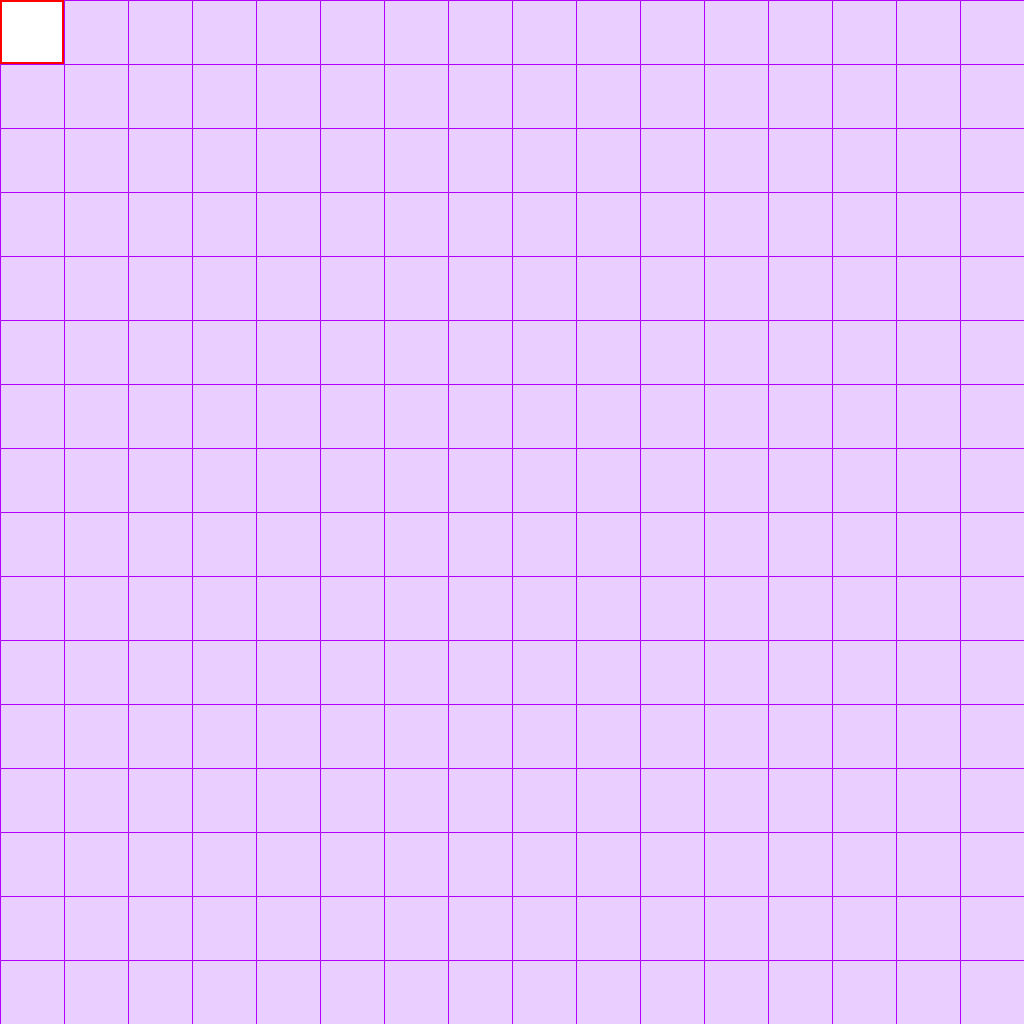
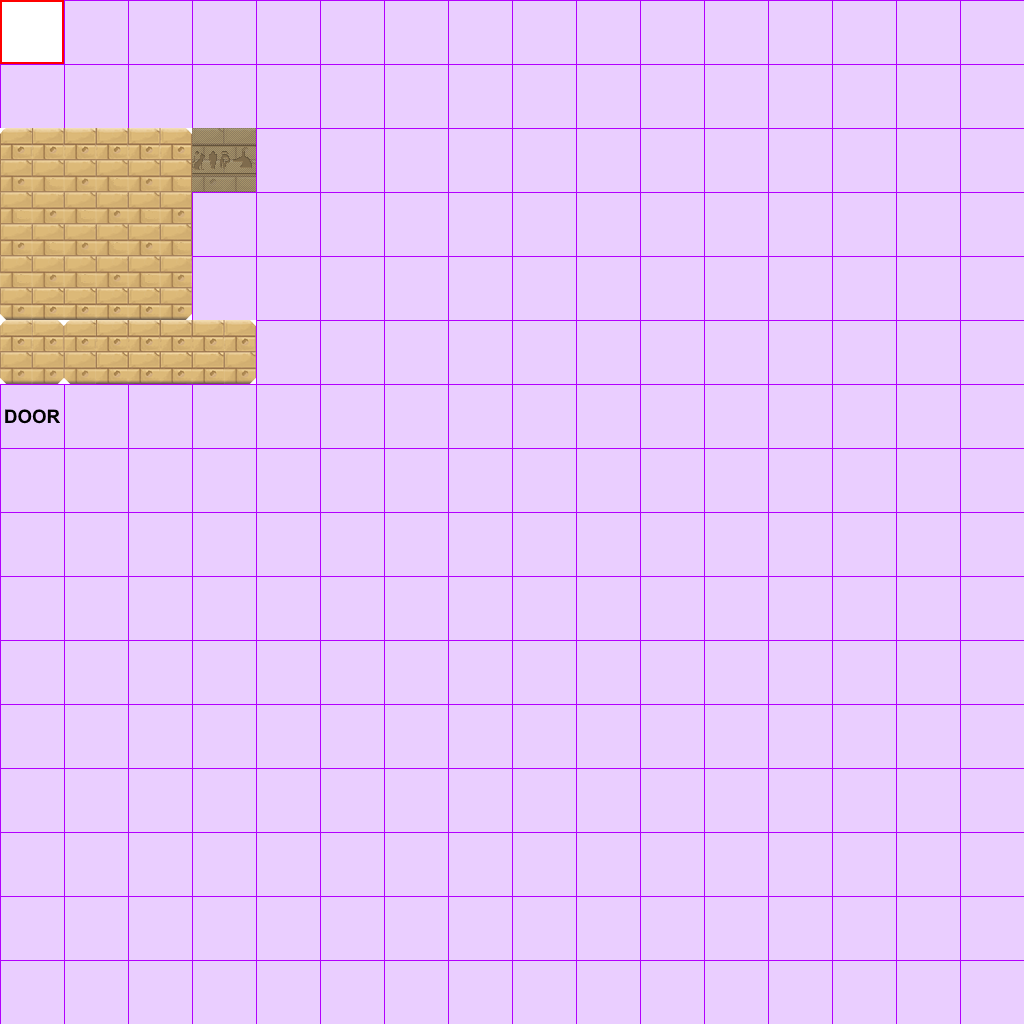
New test level. Doors.

Changed region(s): [[0.0, 0.125, 0.25, 0.4375]]

diff --git a/core/src/pt/feup/jd/screens/GameScreen.java b/core/src/pt/feup/jd/screens/GameScreen.java
@@ -17,6 +17,7 @@ import com.badlogic.gdx.utils.viewport.Viewport;
 
 import pt.feup.jd.Assets;
 import pt.feup.jd.JDGame;
+import pt.feup.jd.Util;
 import pt.feup.jd.entities.Player;
 import pt.feup.jd.levels.Level;
 
@@ -30,6 +31,8 @@ public class GameScreen extends ScreenAdapter {
 	Level level;
 	HashMap<String, Level> levels;
 	
+	float levelChangeTimer, levelChangeDelay;
+	
 	// Render
 	OrthographicCamera camera;
 	Viewport viewport;
@@ -38,6 +41,8 @@ public class GameScreen extends ScreenAdapter {
 	SpriteBatch batch;
 	
 	ShapeRenderer shapeRenderer;
+	
+	public boolean showDoorTooltip;
 
 	
 	@Override
@@ -46,6 +51,9 @@ public class GameScreen extends ScreenAdapter {
 		// Logic
 		levels = new HashMap<String, Level>();
 		gotoLevel("testing", null);	
+		
+		levelChangeTimer = -1;
+		levelChangeDelay = 1f;
 	
 		// Render
 		camera = new OrthographicCamera();
@@ -59,18 +67,22 @@ public class GameScreen extends ScreenAdapter {
 	
 	private void gotoLevel(String name, String spawn) {
 		Player player = null;
-		// TODO if player goes to same level
 		
 		if (level != null) {
+			level.gotoLevel(null, null);
+			
+			if (level.name.equals(name)) {
+				level.gotoSpawn(spawn);
+				return;
+			}
+			
 			player = level.player;
 			level.entities.remove(player);
 			
 			if (!level.persistent) {
 				levels.remove(level.name);
 				level.destroy();	
-			}
-			
-			level.gotoLevel(null, null);
+			}			
 		}
 			
 		if (levels.containsKey(name))
@@ -97,15 +109,29 @@ public class GameScreen extends ScreenAdapter {
 		accum += delta;
 
 		// Logic
-		while(accum > tickdelay) {
-			level.update(tickdelay);
-			accum -= tickdelay;
-		}
+		showDoorTooltip = false;
+		
+		if (levelChangeTimer < 0) {
+		
+			while(accum > tickdelay) {
+				level.update(tickdelay);
+				accum -= tickdelay;
+			}
+			
+			if (level.levelChange) levelChangeTimer = levelChangeDelay;
+			
+		} else {
+			levelChangeTimer = Util.stepTo(levelChangeTimer, 0, delta);
+			if (levelChangeTimer == 0) {
+				levelChangeTimer = -1;
+				gotoLevel(level.targetLevel, level.targetSpawn);				
+			}
+		}	
+	
 		
 		if (Gdx.input.isKeyJustPressed(Input.Keys.D)) JDGame.DEBUG ^= true;
 		
-		// Level change
-		if (level.levelChange) gotoLevel(level.targetLevel, level.targetSpawn);		
+				
 		
 		// Render
 		Gdx.gl.glClearColor(0, 0, 0, 1);
@@ -152,10 +178,18 @@ public class GameScreen extends ScreenAdapter {
 				font.draw(batch, layout, (sw - layout.width)/2, sh-32);
 			} 
 			
+			// Door Tooltip
+			if (showDoorTooltip) {
+				int t = (int) Math.floor(level.trapTimer);
+				font.getData().setScale(1.5f);
+				layout.setText(font, "Press "+Input.Keys.toString(JDGame.keyBindings.get(JDGame.Keys.OPEN_DOOR))+" to open door.");
+				font.draw(batch, layout, (sw - layout.width)/2, sh-32);
+			}
 			// Aux
 			font.getData().setScale(1f);
 			font.draw(batch, "v(" + level.player.vx + "; " + level.player.vy+")",20,20);
 			font.draw(batch, "p(" + level.player.x + "; " + level.player.y+")",20,40);
+			font.draw(batch, levelChangeTimer+"",20,60);
 		batch.end();
 	
 	}

diff --git a/core/src/pt/feup/jd/levels/Level.java b/core/src/pt/feup/jd/levels/Level.java
@@ -111,7 +111,14 @@ public class Level {
 				else if (type.equals("trigger")) {
 					Trigger trigger = new Trigger(this, (RectangleMapObject) o);
 					triggers.put(trigger.name, trigger);
-				} 
+				}
+				// Doors
+				else if (type.equals("door")) {
+					Door door = new Door(this, (RectangleMapObject) o);
+					spawns.put(door.name, p);
+					if (pd == null) pd = p;
+					triggers.put(door.name, door);
+				}
 				// Enemies
 				else if (type.startsWith("enemy-")) {
 					// Snake
@@ -121,6 +128,7 @@ public class Level {
 		}
 		if (pd == null) spawns.put("default", new Vector2(0,0));
 		else spawns.put("default", pd);
+		
 	}
 
 	
@@ -195,14 +203,13 @@ public class Level {
 	public void addEntity(Entity e) { newEntities.add(e); }
 	
 	public void gotoSpawn(String targetSpawn) {
+		if (player == null) return;
 		if (!spawns.containsKey(targetSpawn)) {
 			gotoSpawn("default"); 
 			return;
-		}
-		if (player == null) return;
+		}	
 		
-		Vector2 spawn = spawns.get(targetSpawn);
-		player.moveTo(spawn);
+		player.moveTo(spawns.get(targetSpawn));
 	}
 
 	public void gotoLevel(String tl, String ts) {

diff --git a/core/src/pt/feup/jd/levels/Door.java b/core/src/pt/feup/jd/levels/Door.java
@@ -1,0 +1,27 @@
+package pt.feup.jd.levels;
+
+import com.badlogic.gdx.Gdx;
+import com.badlogic.gdx.maps.objects.RectangleMapObject;
+
+import pt.feup.jd.JDGame;
+
+public class Door extends Trigger {
+
+	public Door(Level level, RectangleMapObject o) {
+		super(level, o);
+	}
+
+	@Override
+	public void activate() {
+		if (targetLevel != null || targetSpawn != null)
+			level.game.showDoorTooltip = true;
+		
+		if (Gdx.input.isKeyJustPressed(JDGame.keyBindings.get(JDGame.Keys.OPEN_DOOR))) {
+			if (targetLevel == null && targetSpawn != null) level.gotoLevel(level.name, targetSpawn);
+			if (targetLevel != null) level.gotoLevel(targetLevel, targetSpawn);
+		};
+	}
+	
+	
+
+}

diff --git a/core/src/pt/feup/jd/JDGame.java b/core/src/pt/feup/jd/JDGame.java
@@ -11,7 +11,7 @@ public class JDGame extends Game {
 	
 	public static final int TILE_SIZE = 64;
 	public static enum Keys {
-		UP,DOWN,LEFT,RIGHT, FIRE
+		UP,DOWN,LEFT,RIGHT, FIRE, OPEN_DOOR
 	}
 	public static HashMap<Keys,Integer> keyBindings;
 	public static void initKeyBindings() {
@@ -21,6 +21,7 @@ public class JDGame extends Game {
 		keyBindings.put(Keys.LEFT,Input.Keys.LEFT);
 		keyBindings.put(Keys.RIGHT,Input.Keys.RIGHT);
 		keyBindings.put(Keys.FIRE,Input.Keys.CONTROL_LEFT);
+		keyBindings.put(Keys.OPEN_DOOR,Input.Keys.DOWN);
 	}
 	
 	public static boolean DEBUG = false;

diff --git a/core/src/pt/feup/jd/levels/Trigger.java b/core/src/pt/feup/jd/levels/Trigger.java
@@ -22,12 +22,10 @@ public class Trigger {
 		x = o.getRectangle().x;
 		y = o.getRectangle().y;
 		w = o.getRectangle().width;
-		h = o.getRectangle().height;		
+		h = o.getRectangle().height;
 	}
 	
 	public void activate() {
-		if (targetLevel == null && targetSpawn != null) level.gotoSpawn(targetSpawn);
-		if (targetLevel != null) level.gotoLevel(targetLevel, targetSpawn);
 		if (activateTrap && level.trapDuration > 0 && level.trapTimer == -1) level.trapTimer = level.trapDuration;
 	}
 }

diff --git a/core/src/pt/feup/jd/Assets.java b/core/src/pt/feup/jd/Assets.java
@@ -14,7 +14,6 @@ public class Assets {
 		
 		int l = JDGame.TILE_SIZE;
 		
-		testImage = new Texture("badlogic.jpg");
 		spritesheet = new Texture("spritesheet.png");
 		spritesheet.setFilter(TextureFilter.Nearest, TextureFilter.Nearest);
 		sprites64 = TextureRegion.split(spritesheet, l, l);
